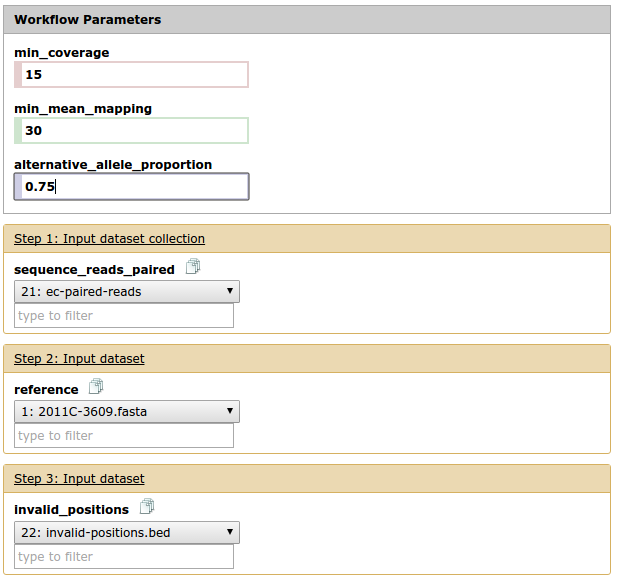
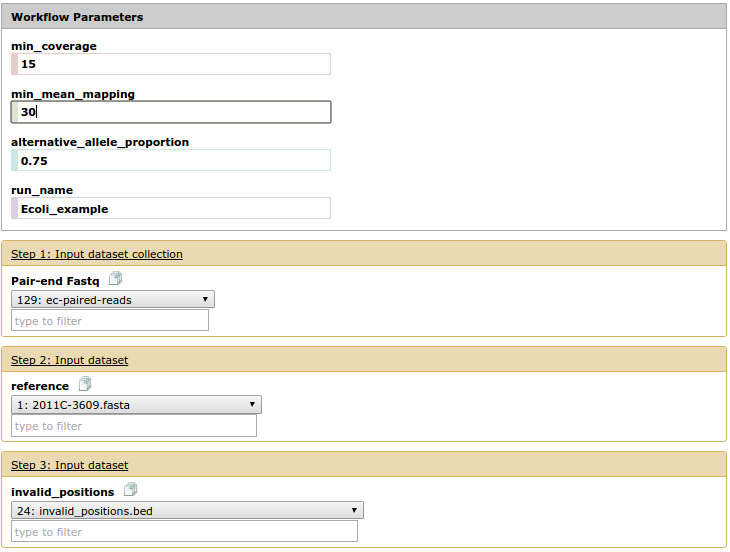
Updating screenshots for ecoli example

diff --git a/docs/examples/escherichia-coli.md b/docs/examples/escherichia-coli.md
@@ -153,7 +153,7 @@ The SNVPhyl pipeline outputs several files which are useful for evaluating the q
 
   Next, we will look at the filterStats.txt file generated by the pipeline.
   
-  Again, click on the view data icon ![view-data-icon][] for the **filterStats.txt** file.
+  Again, click on the view data icon ![view-data-icon][] for the **filter-stats.tsv** file.
   
   In the viewing window, the output should look like:
   
@@ -161,30 +161,26 @@ The SNVPhyl pipeline outputs several files which are useful for evaluating the q
   
   In this output, we see a summary of the total number of single nucleotide variants called by the SNVPhyl pipeline for the run.  The first statistic, **Number of sites used to generate phylogeny**, will vary widely depending on the organism being investigated and the clonality (i.e - how genetically similar the strains are) of the isolates.  
   
-  A better QC indicator is the **Percentage of sites filtered** statistic.  If a high percentage of the SNV's are filtered, there are several possible interpretations.  On the one hand, this may indicate that there was large variation in the accessory genome of the isolates, which is excluded from the analysis, and would appear as a large number of filtered positions.  Another possibility is that this can indicate an issue with the quality of the reads (i.e poor depth of coverage, poor mapping to reference, etc) used to generate the phylogeny.  For this analysis, we can see that 351 SNV's were used to generate the phylogeny from a total of 368 that were called by the pipeline.
-  
-  
+  A better QC indicator is the **Percentage of sites filtered** statistic.  If a high percentage of the SNV's are filtered, there are several possible interpretations.  On the one hand, this may indicate that there was large variation in the accessory genome of the isolates, which is excluded from the analysis, and would appear as a large number of filtered positions.  Another possibility is that this can indicate an issue with the quality of the reads (i.e
+  poor depth of coverage, poor mapping to reference, etc) used to generate the phylogeny.  For this analysis, we can see that 350 SNV's were used to generate the phylogeny from a total of 709 that were identified by the pipeline.
+   
   The remaining statistics describe the types of filters that were responsible for eliminating low quality SNV's from the pipeline.  These are:
   
   * **Coverage filtered** - SNV's located in low depth of coverage regions
   
   * **mpileup filtered** -  SNV's determined to be invalid by the mpileup/bcftools variant caller
   
-  * **Density filtered** -  SNV's located in high density regions of the genome
+  * **Invalid filtered** -  SNV's determined to be invalid.  This includes any SNV's filtered in high density regions.      
   
-  * **Invalid filtered** -  SNV's determined to be invalid 
+  Finally, we will look at the **percentage_referenced_mapped** file generated by the pipeline.  This file provides information on how well the reads from each individual strain mapped to the reference genome.
   
-  *Note: The Density filtered statistic is a work in progress, and will display a value of 0 until it is fully implemented*   
-  
-  Finally, we will look at the mappingQuality.txt file generated by the pipeline.  This file provides information on how well the reads from each individual strain mapped to the reference genome.
-  
-  Again, click on the view data icon ![view-data-icon][] for the mappingQuality.txt file.
+  Again, click on the view data icon ![view-data-icon][] for the **percentage_referenced_mapped** file.
   
   In the viewing window, the output should look like:
   
   ![ec-mapping-quality][]
   
-  Only isolates that fail the thresholds set for the mapping quality check are listed in the mappingQuality.txt output file.  
+  Only isolates that fail the thresholds set for the mapping quality check are listed in the **percentage_referenced_mapped** output file.  
   
   For our run, in order to pass the mapping quality check, each strain would have to map to over 95% of the reference genome with a minimum depth of coverage of 15 at each  position.  We can see that three strains failed the mapping quality check, **2014C-3598**, **2014C-3655**, and **2014C-3907** which respectively mapped to 94.11%, 93.93%, and 94.88% of the reference genome with a minimum depth of coverage of 15 at each position.  With these values (>90%), it is unlikely that these strains would effect the pipeline results in a serious way.
   
